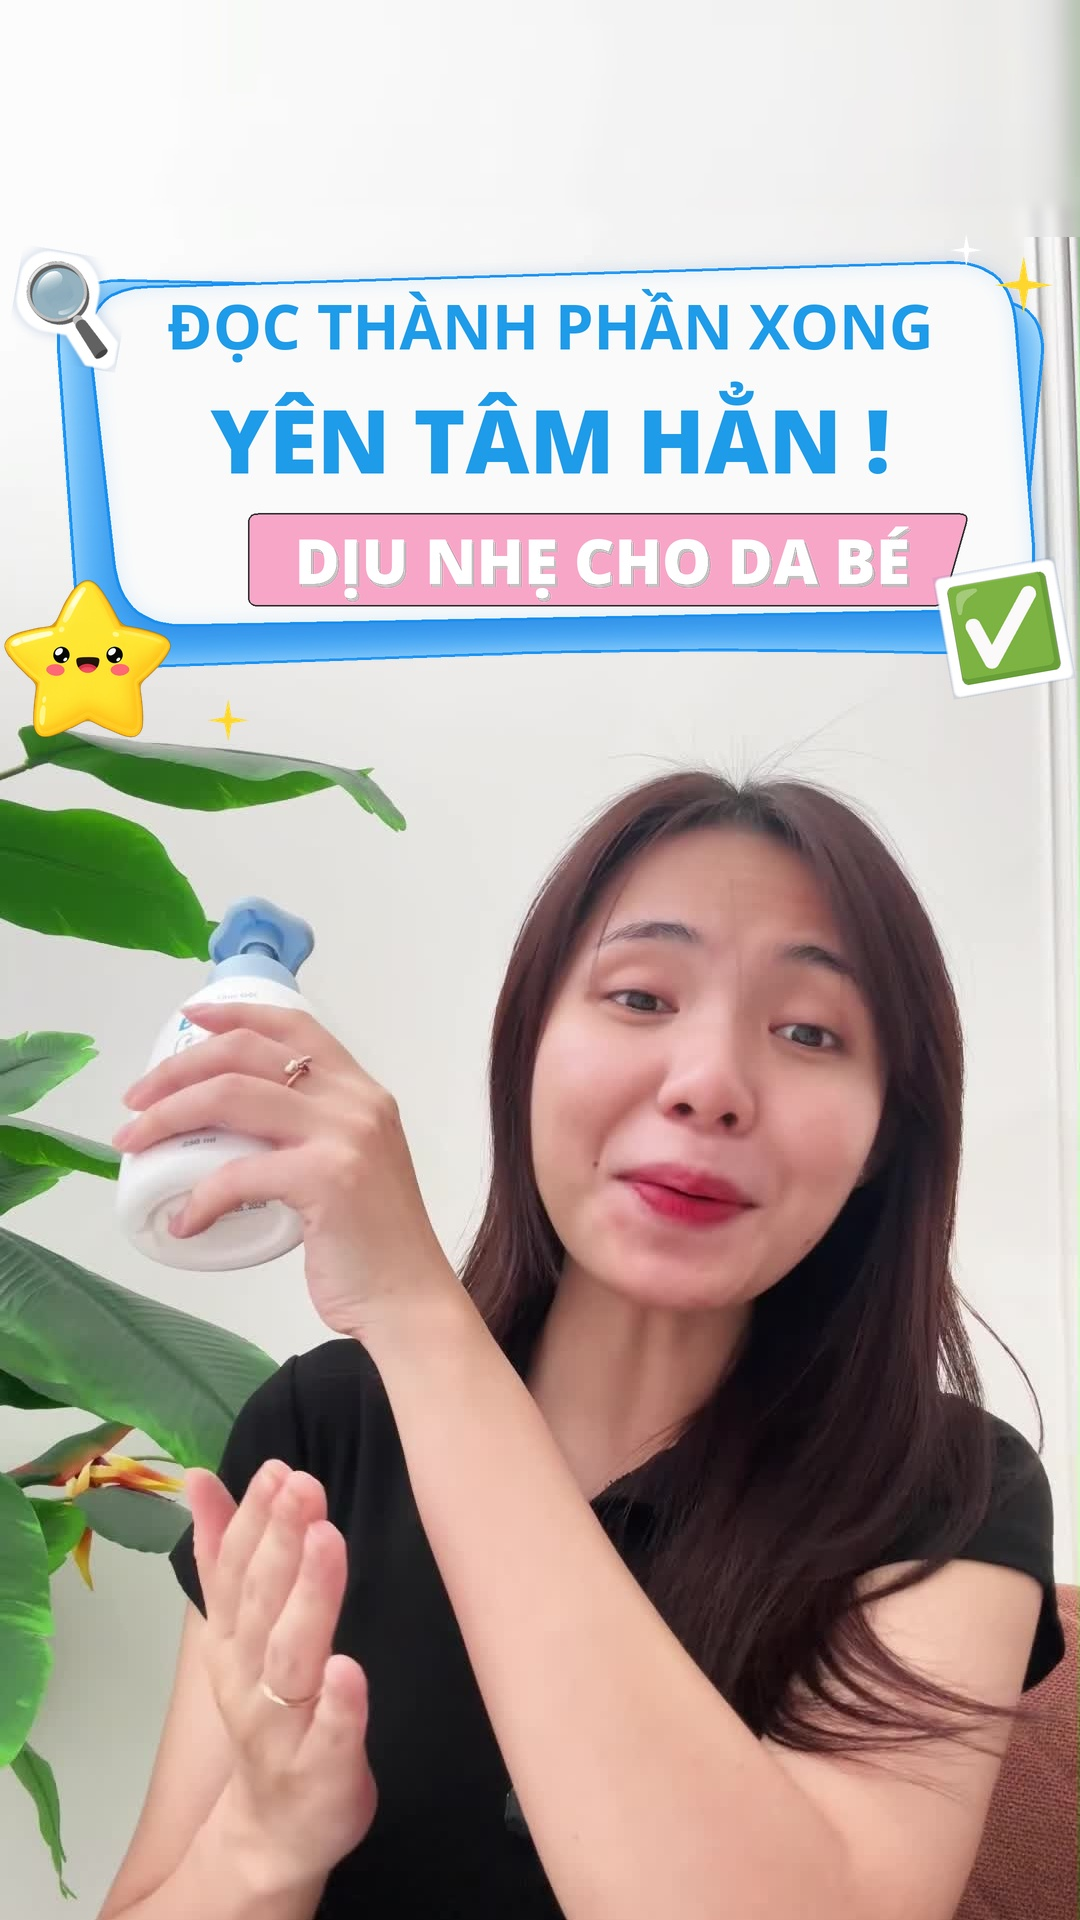
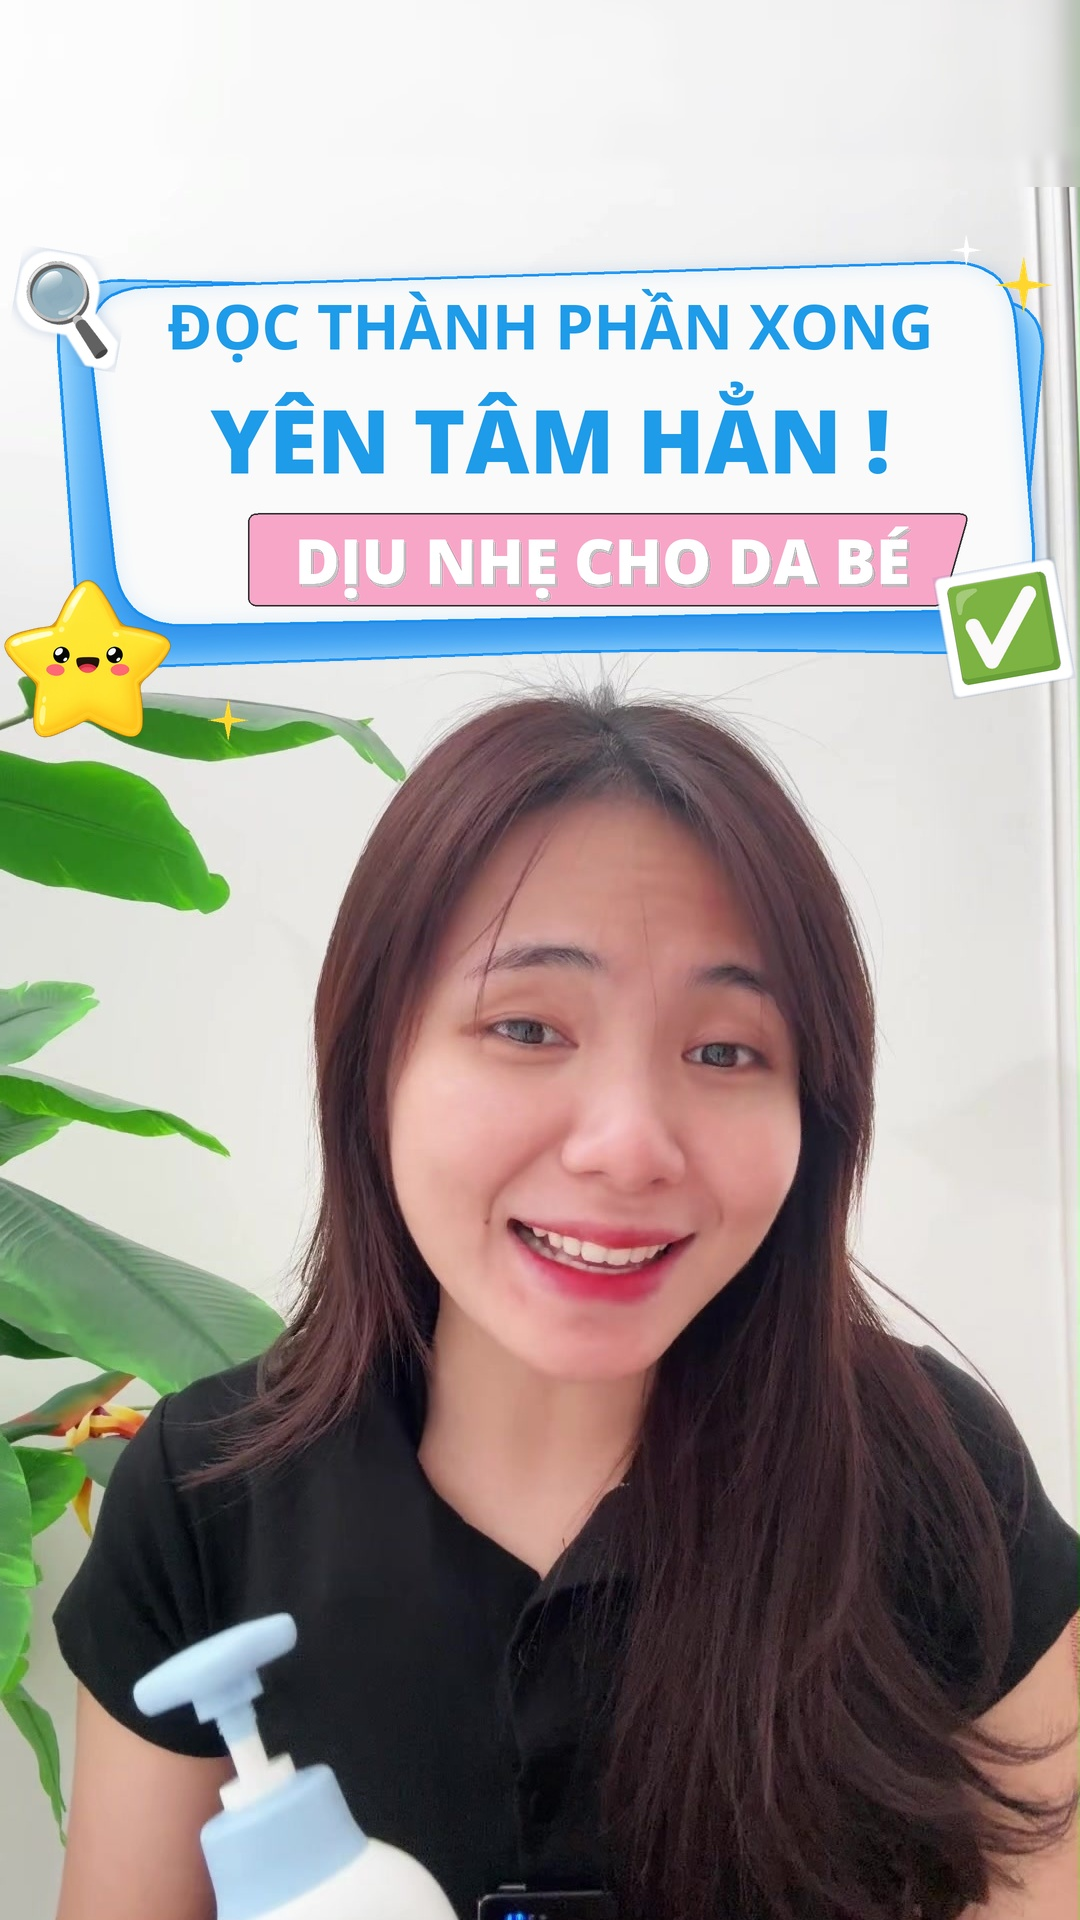
Pick video frames by expression; redo the two latest covers
Add chon_khung.py: samples a video at 4 fps, scores frames with a face
for sharpness, open eyes and a smile, and saves the best ones plus a
contact sheet. The skill now requires choosing a natural, smiling frame
instead of an arbitrary one. Re-render the 1 chai đủ cả and đọc thành
phần covers from better frames.

Claude-Session: https://claude.ai/code/session_01Ug3WuR9fbtqxhsVyfjB7mN

diff --git a/.claude/skills/tao-anh-bia/scripts/chon_khung.py b/.claude/skills/tao-anh-bia/scripts/chon_khung.py
@@ -1,0 +1,93 @@
+#!/usr/bin/env python3
+"""Chọn khung hình đẹp nhất trong video để làm ảnh bìa.
+
+Quét video (mặc định 4 khung/giây), chấm điểm từng khung có mặt người:
+  - mặt to, rõ nét (không nhòe chuyển động)
+  - hai mắt mở (không chớp, không nhắm)
+  - đang cười (miệng cười, không méo khi đang nói dở)
+rồi xuất các khung điểm cao nhất (cách nhau ít nhất 1 giây) và một ảnh lưới để xem.
+
+    python3 chon_khung.py video.mp4 -o thu_muc_ra --top 8
+
+Cần ffmpeg và opencv-python-headless<5. Điểm chỉ là gợi ý: luôn mở ảnh lưới
+và tự chọn khung có biểu cảm tươi, tự nhiên, thấy rõ sản phẩm.
+"""
+import argparse
+import glob
+import os
+import subprocess
+import tempfile
+
+import cv2
+import numpy as np
+from PIL import Image, ImageDraw
+
+H = cv2.data.haarcascades
+FACE = cv2.CascadeClassifier(os.path.join(H, "haarcascade_frontalface_default.xml"))
+EYE = cv2.CascadeClassifier(os.path.join(H, "haarcascade_eye_tree_eyeglasses.xml"))
+SMILE = cv2.CascadeClassifier(os.path.join(H, "haarcascade_smile.xml"))
+
+
+def cham_diem(path):
+    img = cv2.imread(path)
+    g = cv2.cvtColor(img, cv2.COLOR_BGR2GRAY)
+    ge = cv2.equalizeHist(g)
+    faces = FACE.detectMultiScale(ge, 1.1, 6, minSize=(160, 160))
+    if len(faces) == 0:
+        return None
+    x, y, w, h = max(faces, key=lambda f: f[2] * f[3])
+    mat = g[y:y + h, x:x + w]
+    net = cv2.Laplacian(mat, cv2.CV_64F).var()
+    tren = ge[y:y + h // 2, x:x + w]
+    mat_mo = len(EYE.detectMultiScale(tren, 1.1, 8, minSize=(w // 10, w // 10)))
+    duoi = ge[y + h // 2:y + h, x:x + w]
+    cuoi = SMILE.detectMultiScale(duoi, 1.6, 22, minSize=(w // 4, h // 10))
+    diem = 0.0
+    diem += min(net, 400) / 400 * 3          # rõ nét
+    diem += min(mat_mo, 2) * 1.5               # mắt mở
+    diem += 2.5 if len(cuoi) else 0          # cười
+    diem += min(w / img.shape[1], 0.45) * 4    # mặt đủ to
+    return diem, dict(net=round(net), mat=mat_mo, cuoi=len(cuoi), mat_rong=w)
+
+
+def main():
+    ap = argparse.ArgumentParser()
+    ap.add_argument("video")
+    ap.add_argument("-o", "--out", required=True)
+    ap.add_argument("--fps", type=float, default=4)
+    ap.add_argument("--top", type=int, default=8)
+    a = ap.parse_args()
+    os.makedirs(a.out, exist_ok=True)
+    with tempfile.TemporaryDirectory() as tmp:
+        subprocess.run(["ffmpeg", "-v", "error", "-i", a.video, "-vf", f"fps={a.fps}",
+                        "-q:v", "2", os.path.join(tmp, "k_%05d.jpg")], check=True)
+        kq = []
+        for p in sorted(glob.glob(os.path.join(tmp, "k_*.jpg"))):
+            t = (int(os.path.basename(p)[2:7]) - 1) / a.fps
+            d = cham_diem(p)
+            if d:
+                kq.append((d[0], t, p, d[1]))
+        kq.sort(reverse=True)
+        chon = []
+        for d, t, p, info in kq:
+            if all(abs(t - t2) >= 1 for _, t2, _, _ in chon):
+                chon.append((d, t, p, info))
+            if len(chon) >= a.top:
+                break
+        if not chon:
+            print("Không thấy mặt người trong video.")
+            return
+        o = Image.new("RGB", (len(chon) * 216, 410), "white")
+        dr = ImageDraw.Draw(o)
+        for i, (d, t, p, info) in enumerate(chon):
+            ra = os.path.join(a.out, f"khung_{t:05.2f}s.jpg")
+            Image.open(p).save(ra, quality=95)
+            o.paste(Image.open(p).resize((216, 384)), (i * 216, 0))
+            dr.text((i * 216 + 6, 388), f"{t:.2f}s  {d:.1f}", fill=(0, 0, 0))
+            print(f"{t:6.2f}s  điểm {d:4.1f}  {info}  -> {ra}")
+        o.save(os.path.join(a.out, "_luoi.jpg"))
+        print("Ảnh lưới:", os.path.join(a.out, "_luoi.jpg"))
+
+
+if __name__ == "__main__":
+    main()
